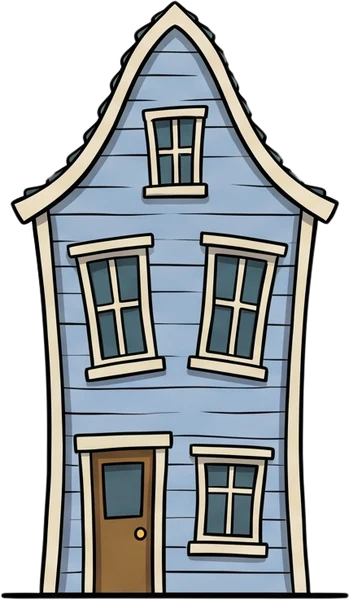
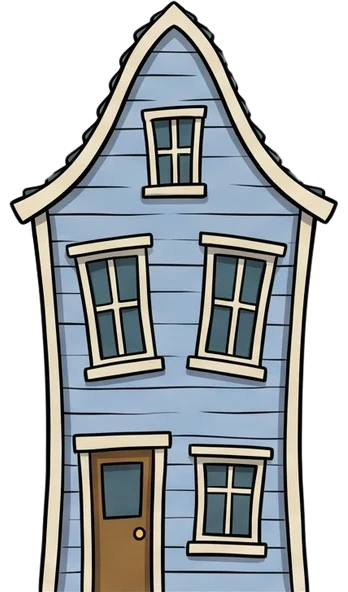
v0.313: evlerin altındaki siyah zemin çizgisi kesildi, evler kuma oturur
Claude-Session: https://claude.ai/code/session_01EP1qQwKWshrEM31AvFBJ7a

Changed region(s): [[0.0, 0.0, 1.0, 1.0], [0.3736, 0.0608, 0.4023, 0.0912], [0.3448, 0.0912, 0.3736, 0.1216]]

diff --git a/www/index.html b/www/index.html
@@ -1,7 +1,7 @@
 <!doctype html>
 <html lang="en"><head><meta charset="utf-8"><meta name="viewport" content="width=device-width,initial-scale=1,viewport-fit=cover,user-scalable=no">
 <title>Popeye Fighter</title>
-<link rel="stylesheet" href="css/oyun.css?v=0.312">
+<link rel="stylesheet" href="css/oyun.css?v=0.313">
 </head><body>
 
 
@@ -19,26 +19,26 @@
 <div class="mini" id="kapat">✕</div>
 <div id="yuk" data-l="yuk"></div>
 
-<script src="js/dil.js?v=0.312"></script>
-<script src="js/ayar.js?v=0.312"></script>
-<script src="js/girdi.js?v=0.312"></script>
-<script src="js/el.js?v=0.312"></script>
-<script src="js/ozel.js?v=0.312"></script>
-<script src="js/mermi.js?v=0.312"></script>
-<script src="js/dusman_kur.js?v=0.312"></script>
-<script src="js/ses.js?v=0.312"></script>
-<script src="js/ispanak.js?v=0.312"></script>
-<script src="js/varil.js?v=0.312"></script>
-<script src="js/efekt.js?v=0.312"></script>
-<script src="js/cevre.js?v=0.312"></script>
-<script src="js/savas.js?v=0.312"></script>
-<script src="js/korsan.js?v=0.312"></script>
-<script src="js/hud.js?v=0.312"></script>
-<script src="js/kombo.js?v=0.312"></script>
-<script src="js/yetenek.js?v=0.312"></script>
-<script src="js/oyuncu.js?v=0.312"></script>
-<script src="js/demo.js?v=0.312"></script>
-<script src="js/dongu.js?v=0.312"></script>
+<script src="js/dil.js?v=0.313"></script>
+<script src="js/ayar.js?v=0.313"></script>
+<script src="js/girdi.js?v=0.313"></script>
+<script src="js/el.js?v=0.313"></script>
+<script src="js/ozel.js?v=0.313"></script>
+<script src="js/mermi.js?v=0.313"></script>
+<script src="js/dusman_kur.js?v=0.313"></script>
+<script src="js/ses.js?v=0.313"></script>
+<script src="js/ispanak.js?v=0.313"></script>
+<script src="js/varil.js?v=0.313"></script>
+<script src="js/efekt.js?v=0.313"></script>
+<script src="js/cevre.js?v=0.313"></script>
+<script src="js/savas.js?v=0.313"></script>
+<script src="js/korsan.js?v=0.313"></script>
+<script src="js/hud.js?v=0.313"></script>
+<script src="js/kombo.js?v=0.313"></script>
+<script src="js/yetenek.js?v=0.313"></script>
+<script src="js/oyuncu.js?v=0.313"></script>
+<script src="js/demo.js?v=0.313"></script>
+<script src="js/dongu.js?v=0.313"></script>
 </script>
 
 </body>

diff --git a/www/js/cevre.js b/www/js/cevre.js
@@ -9,7 +9,7 @@ const TAHTA_W=2400,TAHTA_AYAK=0.346;      // bir tahta şeridinin dünya eni; ay
 const TAHTA_ARKA=150;                     // tahta yüzeyinin arka kenarı: ayak çizgisinden bu kadar geride (evler buraya oturur)
 const EV_P=0.85;
 const EV_BOY=[1511,1582,1189,1451,1142,1402,1432,1365];      // ev cephelerinin dünya boyları (çizimdeki oranlar korunur)
-const EV_ORAN=[0.887,0.582,1.211,0.985,1.141,0.928,0.878,0.998];      // en / boy
+const EV_ORAN=[0.892,0.588,1.191,0.988,1.16,0.938,0.877,1.014];      // en / boy
 const KAZIK_BOY=630,KAZIK_ON=159,KAZIK_ARK=TAHTA_ARKA,KAZIK_KUC=0.78,KAZIK_ARA=TAHTA_W;      // iskele kazıkları (yolla aynı katman, aynı hız): ön kazığın ortası iskelenin ön kenarında (ayak çizgisinin 159 altı), arka kazık arka kenarda ve perspektifle küçük; aralık = bir tahta şeridi
 const KUM_W=2800;      // kum şeridinin ev katmanındaki eni; üst kenarı evlerin alt çizgisinde, alt kenarı tahtanın yarısında
 let CV_EV=[];
@@ -39,7 +39,7 @@ function cevreArka(zeminY){      // arkaPlan'ın sonunda: kum, evler, arka kazı
         for(let x=((W/2-S.x*EV_P*s)%kw+kw)%kw-kw;x<W;x+=kw-1)ctx.drawImage(K,Math.floor(x),ky,Math.ceil(kw)+1,Math.ceil(kh));
         if(kes>ky+kh-2){ctx.fillStyle='#f6bf58';ctx.fillRect(0,Math.floor(ky+kh-2),W,Math.ceil(kes-(ky+kh-2)))}
         ctx.restore()}}
-    for(const e of CV_EV){const im=CVR[e.ad];if(!im)continue;const w=e.h*im.width/im.height;cvCiz(im,W/2+(e.x+w/2-S.x*EV_P)*s,gp+6*s,e.h*s)}}
+    for(const e of CV_EV){const im=CVR[e.ad];if(!im)continue;const w=e.h*im.width/im.height;cvCiz(im,W/2+(e.x+w/2-S.x*EV_P)*s,Math.round(gp+6*s)+3,e.h*s)}}
   kazikCiz(zeminY,false);      // arka kazıklar: alt yarısı iskele tahtasının arkasında kalır
   for(let x=((W/2-S.x*SC)%tw+tw)%tw-tw;x<W;x+=tw-1)ctx.drawImage(T,Math.floor(x),y0,Math.ceil(tw)+1,th);
 }

diff --git a/www/js/ayar.js b/www/js/ayar.js
@@ -1,9 +1,9 @@
 'use strict';
 // Ayarlar, sürüm, görsel yükleyici, ekran boyutu, oyuncu durumu (S)
 // ---------- Görseller: hepsi tek yükleyiciyle; tamamı inince oyun başlar ----------
-const OYUN_SURUM='v0.312';      // ekrandaki sürüm (her değişiklikte artar)
+const OYUN_SURUM='v0.313';      // ekrandaki sürüm (her değişiklikte artar)
 document.getElementById('surum').textContent=OYUN_SURUM;
-const SURUM='?v=79';                 // görsel değişince artır: tarayıcı eski önbelleği kullanmasın
+const SURUM='?v=80';                 // görsel değişince artır: tarayıcı eski önbelleği kullanmasın
 const KP=['kafa','govde','kalca','ust','on','elN','elF','uy','bacak','bot'];      // korsan parça seti (k: yumruklu, b: bıçaklı, p: tabancalı kaptan)
 const ADLAR=['kalca','ustkol','onkol','onkol2','uyluk','altpan','bacak_bot','el_yum','el_yum_f','el_ac_n','el_ac_f','el_pN','el_pF','p_mermi','p_ates','h_elB','h_kanca','h_zincir']
   .concat([...Array(11).keys()].map(i=>'govde'+i),...['k_','b_','p_','h_'].map(q=>KP.map(n=>q+n)));
